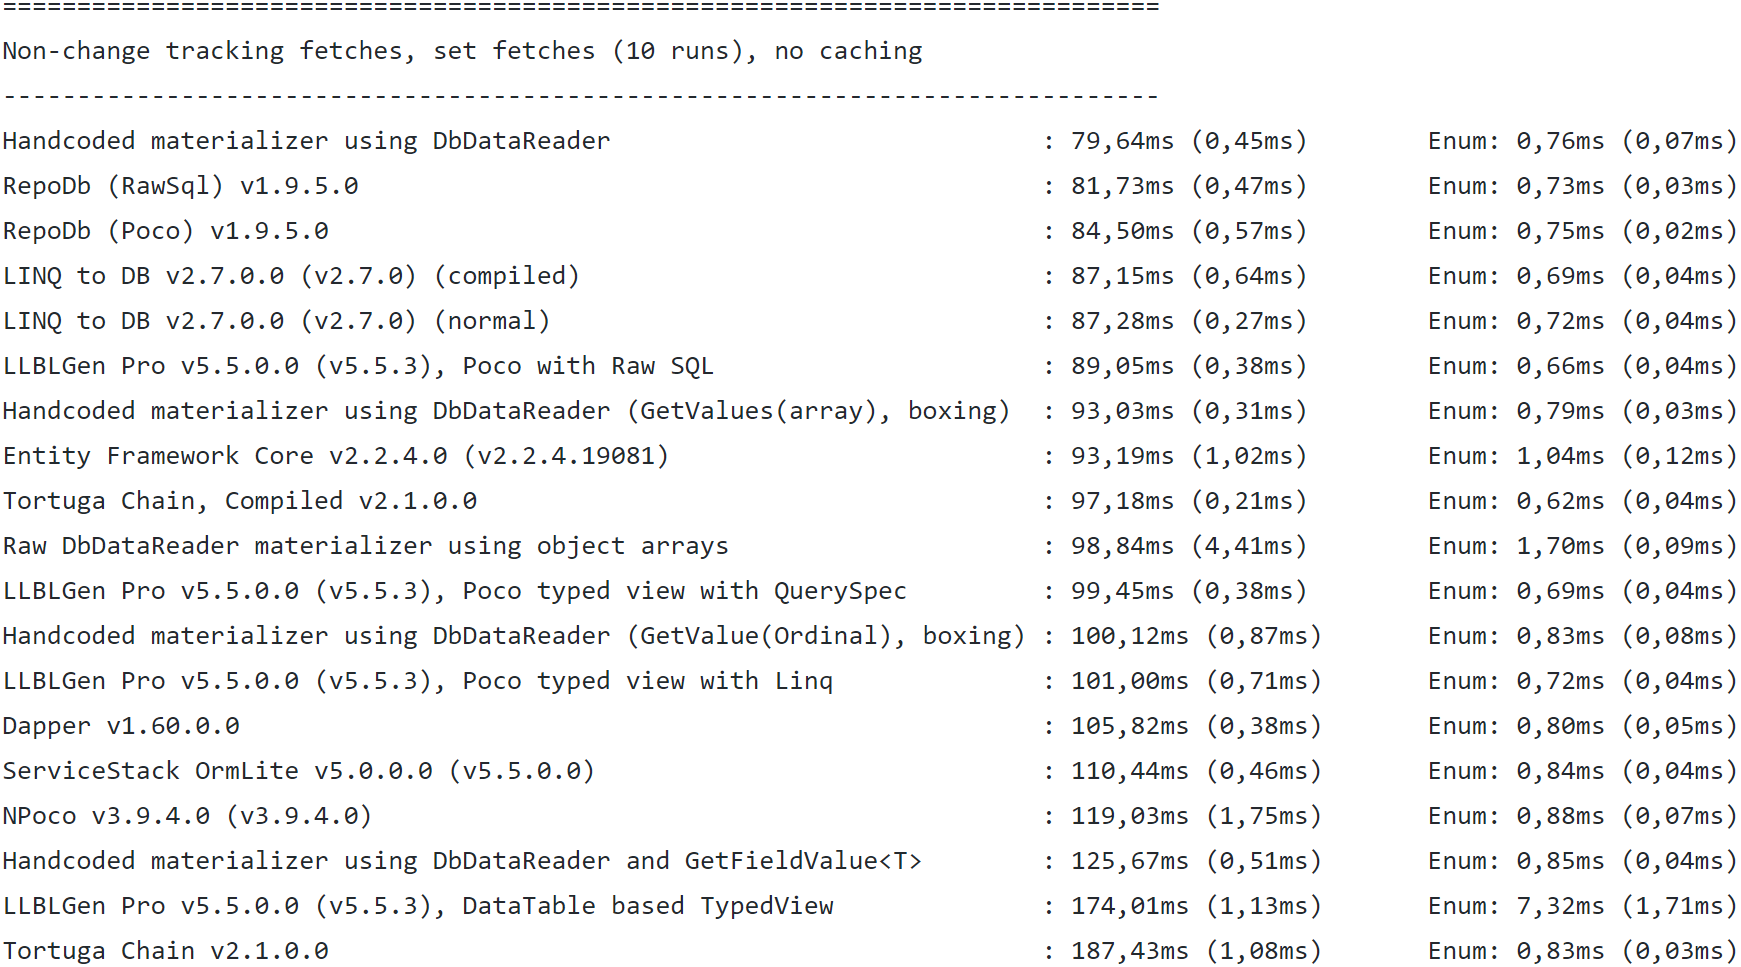
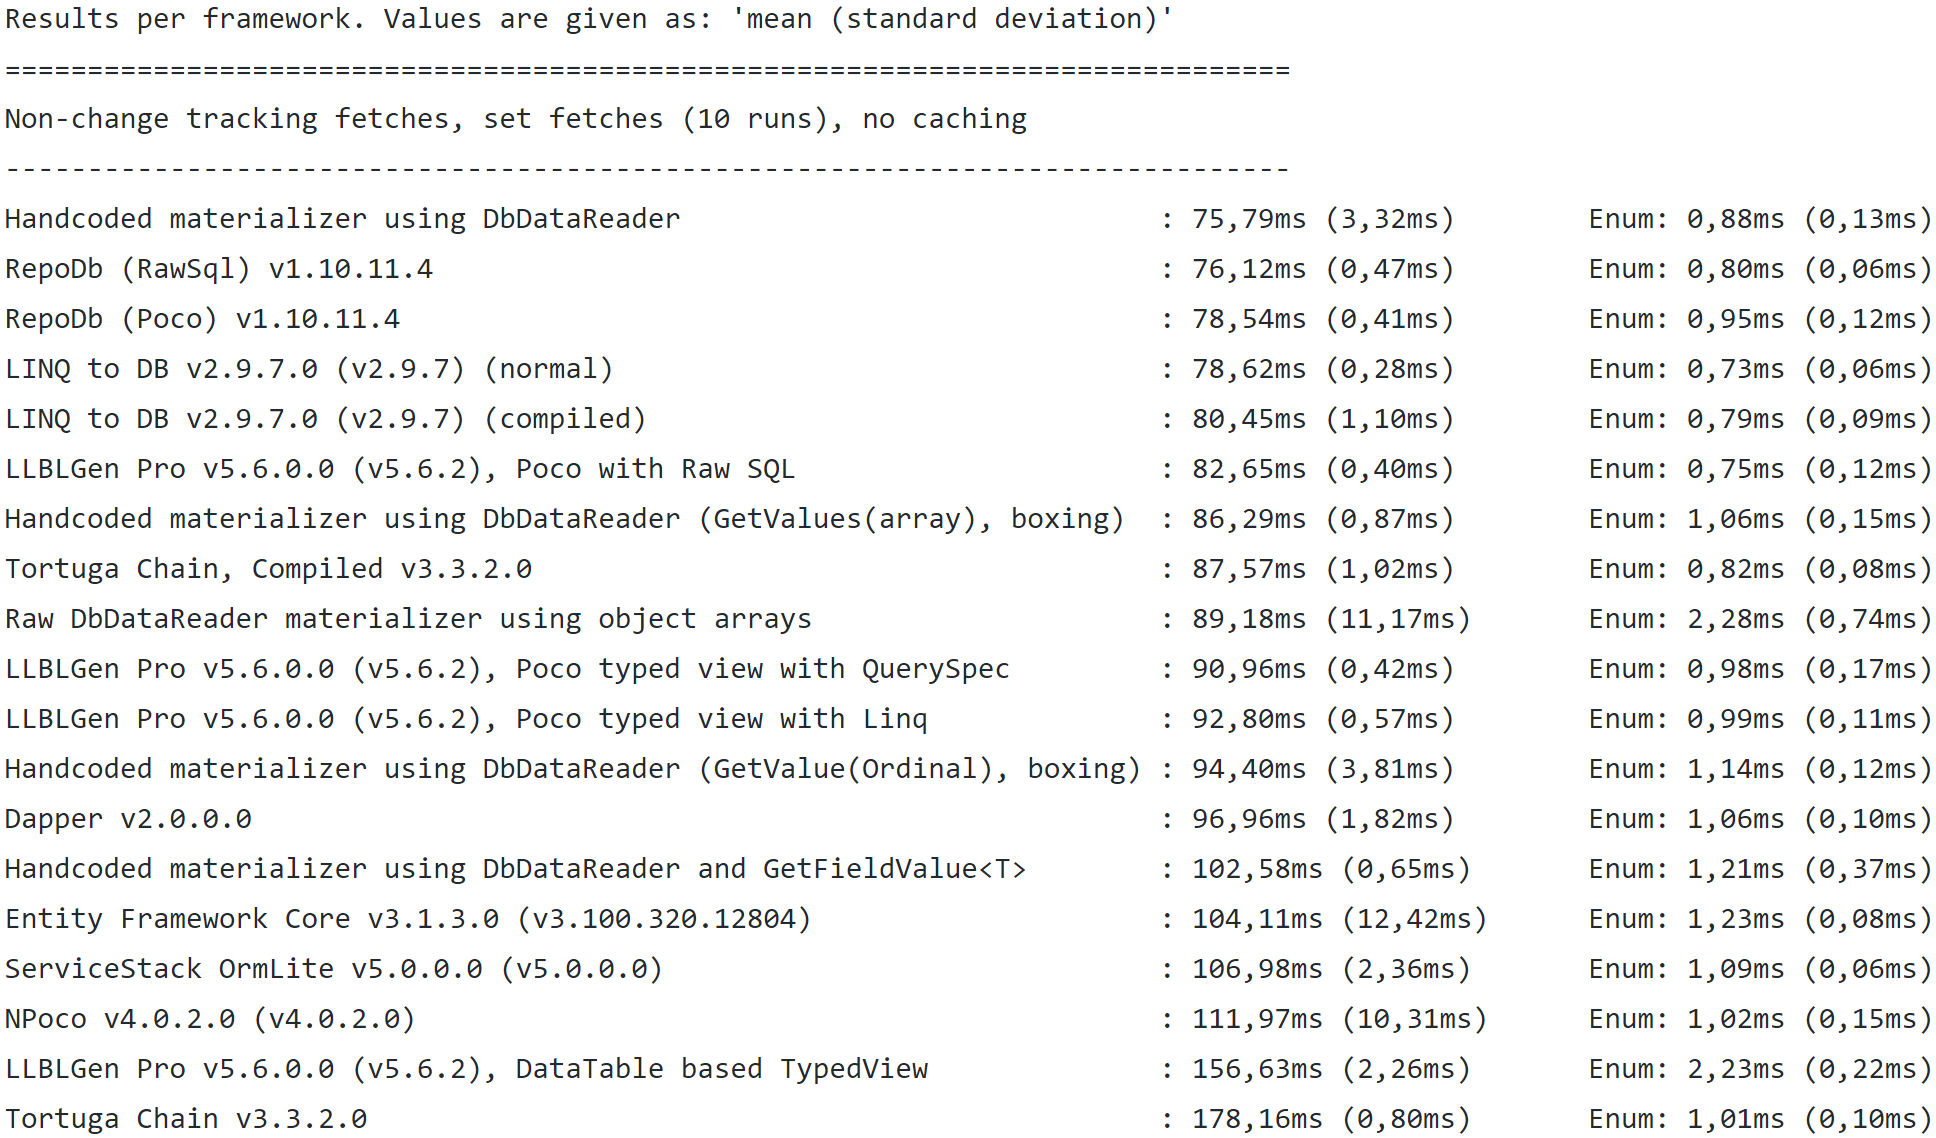
Updated to the latest result of RDAB.

diff --git a/README.md b/README.md
@@ -9,7 +9,10 @@
 [![SolutionBuilds](https://img.shields.io/appveyor/ci/mikependon/repodb-h87g9?label=sln%20builds)](https://ci.appveyor.com/project/mikependon/repodb-h87g9)
 [![Website](https://img.shields.io/badge/website-repodb.net-yellow)](http://repodb.net)
 [![GetStarted](https://img.shields.io/badge/tutorial-getstarted-blueviolet)](http://repodb.net/tutorial/get-started-sqlserver)
+[![CoreVersion](https://img.shields.io/nuget/v/RepoDb)](https://www.nuget.org/packages/RepoDb)
 [![Releases](https://img.shields.io/badge/releases-core-green)](http://repodb.net/release/core)
+[![CoreUnitTests](https://img.shields.io/appveyor/tests/mikependon/repodb-yf1cx?label=unit%20tests)](https://ci.appveyor.com/project/mikependon/repodb-yf1cx/build/tests)
+[![CoreIntegrationTests](https://img.shields.io/appveyor/tests/mikependon/repodb-qksas?label=integration%20tests)](https://ci.appveyor.com/project/mikependon/repodb-qksas/build/tests)
 [![GitterChat](https://img.shields.io/gitter/room/mikependon/RepoDb?color=48B293)](https://gitter.im/RepoDb/community)
 [![License](https://img.shields.io/badge/license-apache-important)](http://apache.org/licenses/LICENSE-2.0.html)
 
@@ -49,55 +52,6 @@ RepoDb has its own compiler and pre-caches the already-generated compiled expres
 
 RepoDb extracts and caches the object properties, execution contexts, object mappings and SQL statements. It is reusing them all throughout the process of transformations and executions.
 
-## Contributions
-
-We would like to make RepoDb the mainstream hybrid-ORM library for .NET technology. Please help us build and realize the solution.
-
-To contribute, please find a [for-grabs](https://github.com/mikependon/RepoDb/issues?q=is%3Aissue+is%3Aopen+label%3A%22for+grabs%22) item and issue a PR. Otherwise, please create a [new issue](https://github.com/mikependon/RepoDb/issues/new) for us to look-at and discuss.
-
-Your biggest contribution is to utilize and share this solution to other developers.
-
-- Blog it
-- Discuss it
-- Document it
-- Share it
-- Use it
-
-### Engagements
-
-Please get in touch with us via:
-
-- [GitHub](https://github.com/mikependon/RepoDb/issues) - for any issues, requests and problems.
-- [StackOverflow](https://stackoverflow.com/questions/tagged/repodb) - for any technical questions.
-- [Twitter](https://twitter.com/search?q=%23repodb) - for the latest news.
-- [Gitter Chat](https://gitter.im/RepoDb/community) - for direct and live Q&A.
-
-### Hints
-
-- [Building the Solutions](https://github.com/mikependon/RepoDb/tree/master/RepoDb.Docs/Building%20the%20Solutions.md) - let us build your copies.
-- [Coding Standards](https://github.com/mikependon/RepoDb/tree/master/RepoDb.Docs/Coding%20Standards.md) - let us be uniformed.
-- [Reporting an Issue](https://github.com/mikependon/RepoDb/tree/master/RepoDb.Docs/Reporting%20an%20Issue.md) - let us organize for easy tracking and fixing.
-
-## Supported Databases
-
-The execute methods below supports all RDBMS data providers.
-
-- [ExecuteQuery](http://repodb.net/operation/executequery)
-- [ExecuteNonQuery](http://repodb.net/operation/executenonquery)
-- [ExecuteScalar](http://repodb.net/operation/executescalar)
-- [ExecuteReader](http://repodb.net/operation/executereader)
-- [ExecuteQueryMultiple](http://repodb.net/operation/executequerymultiple)
-
-Whereas the fluent methods below only supports the [SQL Server](https://www.nuget.org/packages/RepoDb.SqlServer), [SQLite](https://www.nuget.org/packages/RepoDb.SqLite), [MySQL](https://www.nuget.org/packages/RepoDb.MySql) and [PostgreSQL](https://www.nuget.org/packages/RepoDb.PostgreSql) RDBMS data providers.
-
-- [Query](http://repodb.net/operation/query)
-- [Insert](http://repodb.net/operation/insert)
-- [Merge](http://repodb.net/operation/merge)
-- [Delete](http://repodb.net/operation/delete)
-- [Update](http://repodb.net/operation/update)
- 
-Click [here](http://repodb.net/docs#operations) to see all the operations.
-
 ## Get Started
 
 Please click any of the link below to fast-track your learnings.
@@ -126,15 +80,64 @@ Or, learn the specific feature.
 
 Otherwise, please visit our [documentation](http://repodb.net/docs) page to learn more.
 
+## Supported Databases
+
+The execute methods below supports all RDBMS data providers.
+
+- [ExecuteQuery](http://repodb.net/operation/executequery)
+- [ExecuteNonQuery](http://repodb.net/operation/executenonquery)
+- [ExecuteScalar](http://repodb.net/operation/executescalar)
+- [ExecuteReader](http://repodb.net/operation/executereader)
+- [ExecuteQueryMultiple](http://repodb.net/operation/executequerymultiple)
+
+Whereas the fluent methods below only supports the [SQL Server](https://www.nuget.org/packages/RepoDb.SqlServer), [SQLite](https://www.nuget.org/packages/RepoDb.SqLite), [MySQL](https://www.nuget.org/packages/RepoDb.MySql) and [PostgreSQL](https://www.nuget.org/packages/RepoDb.PostgreSql) RDBMS data providers.
+
+- [Query](http://repodb.net/operation/query)
+- [Insert](http://repodb.net/operation/insert)
+- [Merge](http://repodb.net/operation/merge)
+- [Delete](http://repodb.net/operation/delete)
+- [Update](http://repodb.net/operation/update)
+ 
+Click [here](http://repodb.net/docs#operations) to see all the operations.
+
 ## Benchmark
 
 The benchmark result to be shown on this page will always be referring to the community-approved ORM bencher tool (the [RawDataAccessBencher](https://github.com/FransBouma/RawDataAccessBencher) tool).
 
-Results below is the actual recent official execution [result](https://github.com/FransBouma/RawDataAccessBencher/blob/master/Results/20190520_netcore.txt).
+Results below is the actual recent official execution [result](https://github.com/FransBouma/RawDataAccessBencher/blob/master/Results/20200410_netcore31.txt).
 
 <img src="https://raw.githubusercontent.com/mikependon/RepoDb/master/RepoDb.Raw/RDAB/RDAB-Result.PNG" height="460px" />
 
 This section will always be updated with the latest official result.
+
+## Contributions
+
+We would like to make RepoDb the mainstream hybrid-ORM library for .NET technology. Please help us build and realize the solution.
+
+To contribute, please find a [for-grabs](https://github.com/mikependon/RepoDb/issues?q=is%3Aissue+is%3Aopen+label%3A%22for+grabs%22) item and issue a PR. Otherwise, please create a [new issue](https://github.com/mikependon/RepoDb/issues/new) for us to look-at and discuss.
+
+Your biggest contribution is to utilize and share this solution to other developers.
+
+- Blog it
+- Discuss it
+- Document it
+- Share it
+- Use it
+
+### Engagements
+
+Please get in touch with us via:
+
+- [GitHub](https://github.com/mikependon/RepoDb/issues) - for any issues, requests and problems.
+- [StackOverflow](https://stackoverflow.com/questions/tagged/repodb) - for any technical questions.
+- [Twitter](https://twitter.com/search?q=%23repodb) - for the latest news.
+- [Gitter Chat](https://gitter.im/RepoDb/community) - for direct and live Q&A.
+
+### Hints
+
+- [Building the Solutions](https://github.com/mikependon/RepoDb/tree/master/RepoDb.Docs/Building%20the%20Solutions.md) - let us build your copies.
+- [Coding Standards](https://github.com/mikependon/RepoDb/tree/master/RepoDb.Docs/Coding%20Standards.md) - let us be uniformed.
+- [Reporting an Issue](https://github.com/mikependon/RepoDb/tree/master/RepoDb.Docs/Reporting%20an%20Issue.md) - let us organize for easy tracking and fixing.
 
 ## Credits
 
